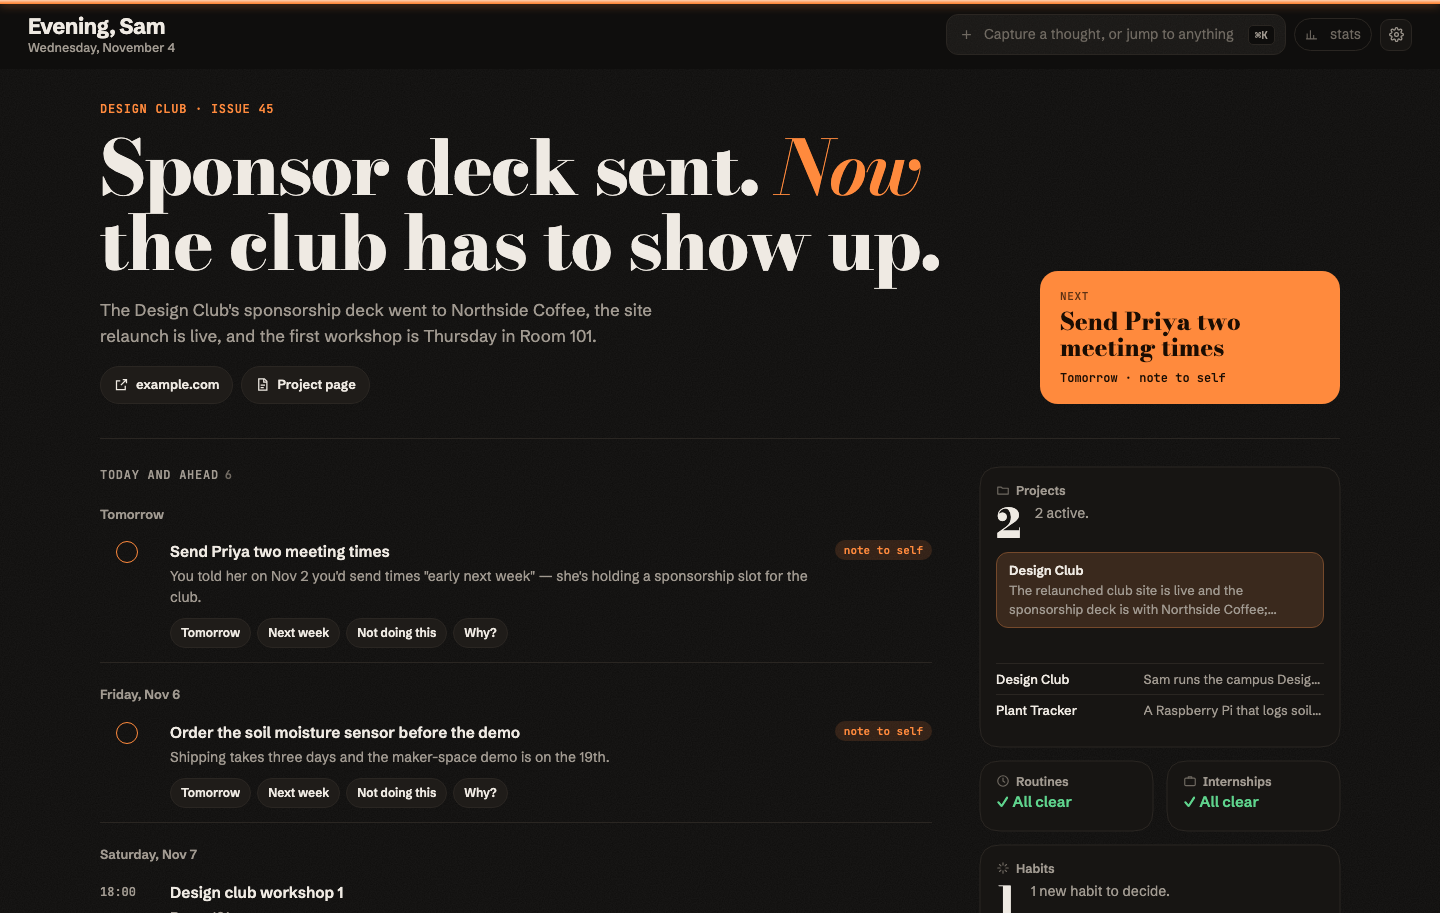
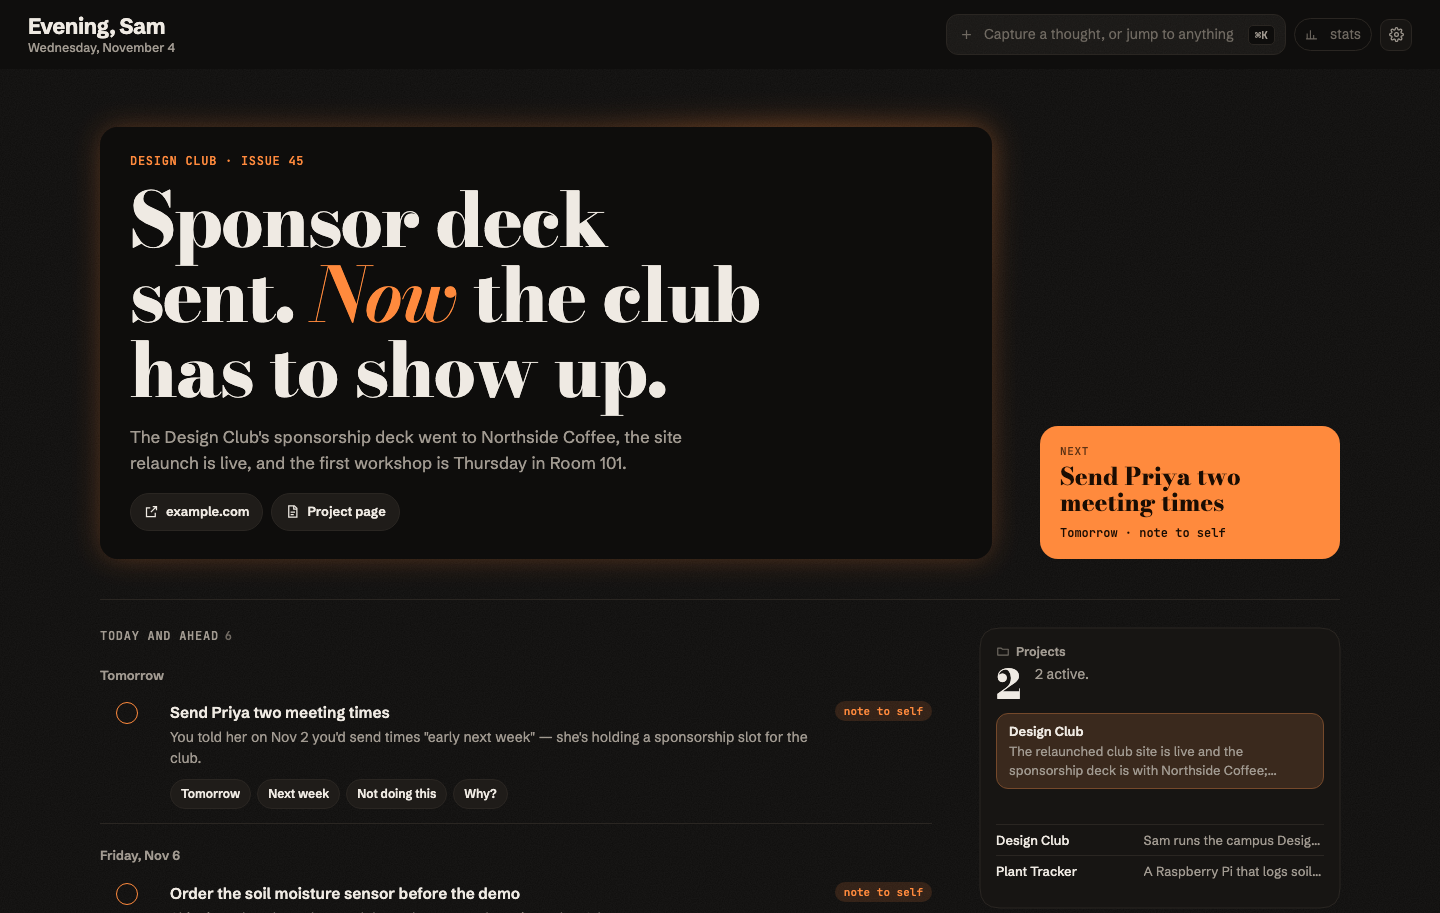
Ribbon: soft glow around the cover block instead of the top band
No line, 18px corners (square on Swiss), an even soft shadow in the cover colour and a blurred
patch of it drifting around the edge every 9s; a soft warm shadow on light themes. Reduced
motion stops the drift. Fresh docs screenshots.

diff --git a/mobile/index.html b/mobile/index.html
@@ -333,12 +333,19 @@ body.tiles .fab { width: 56px; padding: 0; justify-content: center; font-size: 0
   .pt { opacity: 1; transform: none; transition: none; } }
 
 /* Front page layout (default): the cover headline leads, then Next, then one Today list (notes to self + Up next), then the other tiles. Same idea as the Mac. */
-body.front::before { content: ""; position: fixed; inset: 0 0 auto; height: 3px; z-index: 40; pointer-events: none;
-  background: linear-gradient(180deg, color-mix(in srgb, var(--cover-solid) 40%, white), transparent 80%),
-    linear-gradient(100deg, transparent 35%, color-mix(in srgb, var(--cover-solid) 30%, white) 50%, transparent 65%) -150% 0 / 60% 100% no-repeat,
-    linear-gradient(90deg, var(--accent), var(--cover-solid) 50%, var(--accent));
-  box-shadow: 0 1px 10px color-mix(in srgb, var(--accent) 45%, transparent); animation: sheen 7s ease-in-out infinite; }
-@keyframes sheen { 0%, 55% { background-position: 0 0, -150% 0, 0 0; } 100% { background-position: 0 0, 250% 0, 0 0; } }
+/* the ribbon: no line, a soft glow in the cover colour around the cover block; a brighter patch of it drifts around the edge */
+@property --rib-a { syntax: "<angle>"; inherits: false; initial-value: 0deg; }
+.rib { position: relative; isolation: isolate; border-radius: 18px; padding: 26px 30px 28px; box-shadow: 0 0 28px -6px color-mix(in srgb, var(--cover-solid) 28%, transparent); }
+.rib::before, .rib::after { content: ""; position: absolute; inset: 0; z-index: -1; pointer-events: none; border-radius: inherit; }
+.rib::before { inset: -2px; filter: blur(16px); opacity: .3; animation: rib-spin 9s linear infinite;
+  background: conic-gradient(from var(--rib-a), color-mix(in srgb, var(--cover-solid) 30%, transparent) 0 15%, var(--cover-solid) 25%, color-mix(in srgb, var(--cover-solid) 30%, transparent) 35% 100%); }
+.rib::after { background: var(--bg); }
+@keyframes rib-spin { to { --rib-a: 360deg; } }
+/* light themes: a soft warm shadow, not a glow */
+[data-tone="light"] .rib { box-shadow: 0 8px 28px -10px color-mix(in srgb, var(--cover-solid) 40%, transparent), 0 1px 3px color-mix(in srgb, var(--cover-solid) 12%, transparent); }
+[data-tone="light"] .rib::before { opacity: .16; }
+[data-family="swiss"] .rib { border-radius: 0; }
+.rib { margin: 10px 0 18px; padding: 18px 18px 20px; } .rib .fp-kick { margin-top: 0; } .rib .hl.fp-hl { margin-bottom: 8px; } .rib .fp-dek { margin-bottom: 0; }
 .fp-kick { margin: 10px 2px 0; font: 500 11px var(--mono); letter-spacing: .06em; text-transform: uppercase; color: var(--accent); }
 .hl.fp-hl { display: block; -webkit-line-clamp: unset; margin: 6px 2px 10px; font: 800 34px/1.02 var(--display); letter-spacing: -.015em; }
 .fp-hl em { font-style: italic; color: var(--accent); }
@@ -355,7 +362,7 @@ body.front::before { content: ""; position: fixed; inset: 0 0 auto; height: 3px;
 .fp-t .acts { display: flex; flex-wrap: wrap; gap: 6px; margin-top: 10px; }
 .fp-empty { margin: 14px 2px 0; color: var(--muted); }
 body.front #board { margin-top: 22px; }
-@media (prefers-reduced-motion: reduce) { body.front::before { animation: none; } .fp-check { transition: none; } }
+@media (prefers-reduced-motion: reduce) { .rib::before { animation: none; } .fp-check { transition: none; } }
 </style>
 <link rel="stylesheet" href="../app/theme.css">
 <script src="../app/theme.js"></script>
@@ -668,7 +675,7 @@ function front(view) {
     return `${head}<div class="fp-item"><button class="fp-check" data-nudge="${esc(m.id)}" data-a="done" aria-label="Done: ${esc(m.title)}"></button><div class="fp-t"><b>${esc(m.title)}</b>${m.why ? `<p data-expand>${esc(m.why)}</p>` : ""}
       <div class="acts"><button class="pill" data-nudge="${esc(m.id)}" data-a="snooze" data-days="1">Tomorrow</button><button class="pill" data-nudge="${esc(m.id)}" data-a="snooze" data-days="7">Next week</button><button class="pill" data-nudge="${esc(m.id)}" data-a="no">Drop</button></div></div></div>`;
   }).join("");
-  return (n.headline && ITEMS.cover ? `<div class="fp-kick">${proj ? esc(proj.title) + " · " : ""}Issue ${esc(view.issue)}</div><h2 class="hl fp-hl" data-k="cover">${esc(n.headline).replace(/\*([^*]+)\*/g, "<em>$1</em>")}</h2>${n.dek ? `<p class="fp-dek">${esc(n.dek)}</p>` : ""}` : "")
+  return (n.headline && ITEMS.cover ? `<div class="rib"><div class="fp-kick">${proj ? esc(proj.title) + " · " : ""}Issue ${esc(view.issue)}</div><h2 class="hl fp-hl" data-k="cover">${esc(n.headline).replace(/\*([^*]+)\*/g, "<em>$1</em>")}</h2>${n.dek ? `<p class="fp-dek">${esc(n.dek)}</p>` : ""}</div>` : "")
     + "<!--next-->" + `<h2 class="fp-h">Today and ahead<span>${list.length || ""}</span></h2>` + (rows || `<p class="fp-empty">A clear runway. Nothing to do and nothing coming up.</p>`);
 }
 setInterval(() => {  // the countdown ticks; when it runs out, the next thing takes its place

diff --git a/app/index.html b/app/index.html
@@ -401,14 +401,19 @@ a.it-row:hover { background: var(--tile-2); }
 /* ---------- front page layout: the cover as the page's headline, one Today list (notes to self + Up next), the other tiles in a rail ---------- */
 .fp { display: none; max-width: 1240px; margin: 0 auto; }
 body.front .fp { display: block; }
-/* the ribbon: a thin glossy band across the very top, in the colour of the headline's italic */
-body.front::before { content: ""; position: fixed; inset: 0 0 auto; height: 4px; z-index: 30; pointer-events: none;
-  background: linear-gradient(180deg, color-mix(in srgb, var(--cover-solid) 40%, white), transparent 80%),
-    linear-gradient(100deg, transparent 35%, color-mix(in srgb, var(--cover-solid) 30%, white) 50%, transparent 65%) -150% 0 / 60% 100% no-repeat,
-    linear-gradient(90deg, var(--accent), var(--cover-solid) 50%, var(--accent));
-  box-shadow: 0 1px 10px color-mix(in srgb, var(--accent) 45%, transparent); animation: sheen 7s ease-in-out infinite; }
-@keyframes sheen { 0%, 55% { background-position: 0 0, -150% 0, 0 0; } 100% { background-position: 0 0, 250% 0, 0 0; } }
-.fp-lead { display: grid; grid-template-columns: minmax(0, 1fr) minmax(240px, 300px); gap: 48px; align-items: end; padding: 14px 0 34px; border-bottom: 1px solid var(--line); }
+/* the ribbon: no line, a soft glow in the cover colour around the cover block; a brighter patch of it drifts around the edge */
+@property --rib-a { syntax: "<angle>"; inherits: false; initial-value: 0deg; }
+.rib { position: relative; isolation: isolate; border-radius: 18px; padding: 26px 30px 28px; box-shadow: 0 0 28px -6px color-mix(in srgb, var(--cover-solid) 28%, transparent); }
+.rib::before, .rib::after { content: ""; position: absolute; inset: 0; z-index: -1; pointer-events: none; border-radius: inherit; }
+.rib::before { inset: -2px; filter: blur(16px); opacity: .3; animation: rib-spin 9s linear infinite;
+  background: conic-gradient(from var(--rib-a), color-mix(in srgb, var(--cover-solid) 30%, transparent) 0 15%, var(--cover-solid) 25%, color-mix(in srgb, var(--cover-solid) 30%, transparent) 35% 100%); }
+.rib::after { background: var(--bg); }
+@keyframes rib-spin { to { --rib-a: 360deg; } }
+/* light themes: a soft warm shadow, not a glow */
+[data-tone="light"] .rib { box-shadow: 0 8px 28px -10px color-mix(in srgb, var(--cover-solid) 40%, transparent), 0 1px 3px color-mix(in srgb, var(--cover-solid) 12%, transparent); }
+[data-tone="light"] .rib::before { opacity: .16; }
+[data-family="swiss"] .rib { border-radius: 0; }
+.fp-lead { display: grid; grid-template-columns: minmax(0, 1fr) minmax(240px, 300px); gap: 48px; align-items: end; padding: 40px 0 40px; border-bottom: 1px solid var(--line); }
 .fp-kick { font: 500 12px var(--mono); letter-spacing: .06em; text-transform: uppercase; color: var(--accent); }
 .fp-hl { font: 800 clamp(40px, 5.2vw, 76px)/1 var(--display); letter-spacing: -.02em; margin: 14px 0 0; max-width: 17ch; text-wrap: balance; }
 .fp-hl em { font-style: italic; font-weight: 600; color: var(--accent); }
@@ -436,7 +441,7 @@ body.front::before { content: ""; position: fixed; inset: 0 0 auto; height: 4px;
 .fp-empty { color: var(--muted); margin-top: 18px; }
 .fp-rail .board { max-width: none; }
 @media (max-width: 900px) { .fp-lead, .fp-cols { grid-template-columns: 1fr; gap: 24px; } }
-@media (prefers-reduced-motion: reduce) { body.front::before { animation: none; } .fp-next, .fp-check, .fp-item { transition: none; } }
+@media (prefers-reduced-motion: reduce) { .rib::before { animation: none; } .fp-next, .fp-check, .fp-item { transition: none; } }
 </style>
 <link rel="stylesheet" href="theme.css">
 <script src="theme.js"></script>
@@ -854,7 +859,7 @@ function renderFront() {
   if (layout !== "front" || !S) return;
   const n = S.now, proj = S.projects.find(p => p.slug === n.project), hid = new Set(S.hidden || []), nx = hid.has("next") ? null : BT.nextUp(S);
   const dayName = d => { const k = daysFrom(d); return k < 0 ? "Overdue" : k === 0 ? "Today" : k === 1 ? "Tomorrow" : new Date(d + "T12:00:00").toLocaleDateString("en", { weekday: "long", month: "short", day: "numeric" }); };
-  $("fpLead").innerHTML = `<div><div class="fp-kick">${proj ? esc(proj.title) + " · " : ""}Issue ${esc(S.issue)}</div>
+  $("fpLead").innerHTML = `<div class="rib"><div class="fp-kick">${proj ? esc(proj.title) + " · " : ""}Issue ${esc(S.issue)}</div>
     <h2 class="fp-hl">${n.headline ? esc(n.headline).replace(/\*(.+?)\*/g, "<em>$1</em>") : "Nothing on the cover yet."}</h2>
     <p class="fp-dek">${n.headline ? esc(n.dek || "") : "Claude writes the headline in <code>now.md</code> after real work."}</p>
     <div class="fp-acts">${proj ? reopenButtons(proj, { big: true }) + `<button class="pill ghost" data-open="${esc(proj.path)}">${I.note}Project page</button>` : ""}</div></div>`
